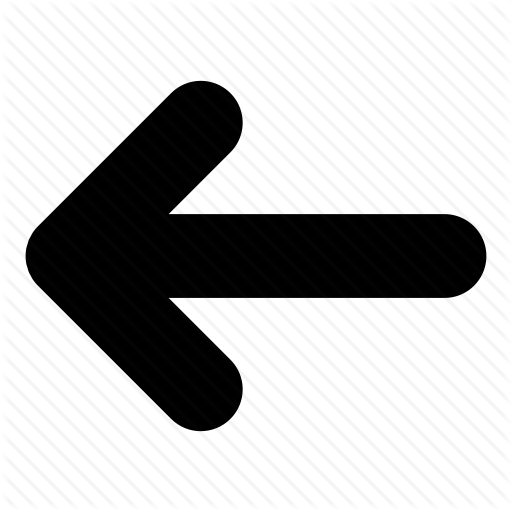
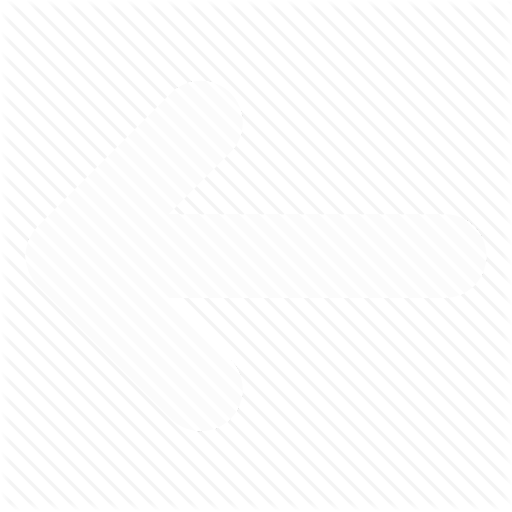
Added white arrows to map

Changed region(s): [[0.0312, 0.1562, 0.9688, 0.8438]]

diff --git a/src/IsNotAuth.js b/src/IsNotAuth.js
@@ -111,7 +111,9 @@ class IsNotAuth extends Component {
                 <button onClick={this.signIn}>Sign In</button>
                 <button onClick={this.signUp}>Sign Up</button>
 
-                <div style={{overflowY:'auto', height: '90%'}}><div className="commit"> fakebounce, le 2018-10-10 : Added illustrations for items </div>
+                <div style={{overflowY:'auto', height: '90%'}}><div className="commit"> fakebounce, le 2018-10-11 : Added white arrows to map </div>
+                    <div className="commit"> fakebounce, le 2018-10-11 : Fixed some CharacterPanel bugs </div>
+                    <div className="commit"> fakebounce, le 2018-10-10 : Added illustrations for items </div>
                     <div className="commit"> FakeBounce, le 2018-10-09 : Fixed map player view. Fixed quest bugs. GM can now switch between GM view and Player view. Did some style to Town gestion </div>
                     <div className="commit"> fakebounce, le 2018-10-09 : Positionned towns. Now GM can add and remove quests/merchants from towns dynamically. Style need to be reviewed </div>
                     <div className="commit"> FakeBounce, le 2018-10-08 : Formatted map, added NoFog tile and arrows to navigate </div>
